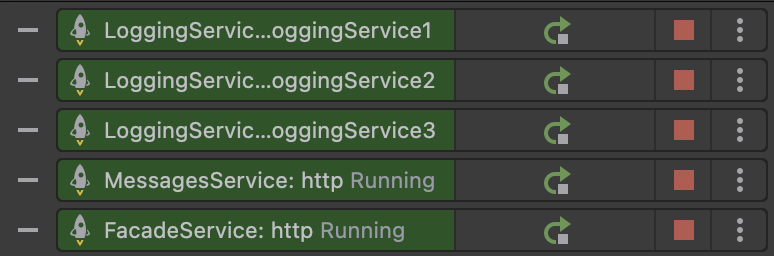
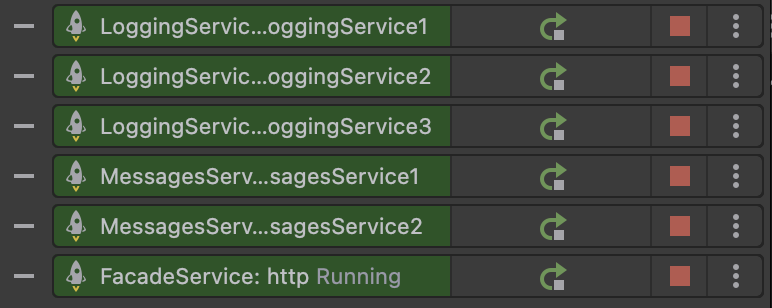
message queue

diff --git a/FacadeService/Program.cs b/FacadeService/Program.cs
@@ -1,4 +1,5 @@
 using FacadeService;
+using Hazelcast;
 
 var builder = WebApplication.CreateBuilder(args);
 
@@ -9,18 +10,32 @@ var app = builder.Build();
 app.UseSwagger();  
 app.UseSwaggerUI();
 
-app.MapPost("/facade", async (HttpContext httpContext, ILoggingClientService loggingClientService) => {
-    var request = await httpContext.Request.ReadFromJsonAsync<MessageRequest>();
+app.MapPost("/facade", async (
+    MessageRequest? request,
+    ILoggingClientService loggingClientService,
+    IHazelcastClient hzClient) =>
+{
+    if (request is null) 
+        return Results.BadRequest("Message is required");
+    
+    var queue = await hzClient.GetQueueAsync<string>("messageQueue");
+    await queue.OfferAsync(request.Message);
+
     var client = await loggingClientService.GetClientAsync();
     var uuid = Guid.NewGuid().ToString();
-    await client.PostAsJsonAsync("/log", new { Uuid = uuid, Message = request?.Message });
+    await client.PostAsJsonAsync("/log", new { Uuid = uuid, request.Message });
     return Results.Ok(new { Uuid = uuid });
 });
 
-app.MapGet("/facade", async (ILoggingClientService loggingClientService) => {
-    var client = await loggingClientService.GetClientAsync();
-    var loggingResponse = await client.GetStringAsync("/log");
-    var messagesResponse = "Static response or another service call";
+app.MapGet("/facade", async (
+    ILoggingClientService loggingClientService,
+    IMessagesClientService messagesClientService) =>
+{
+    var messagesClient = await messagesClientService.GetClientAsync();
+    var messagesResponse = await messagesClient.GetStringAsync("/messages");
+
+    var loggingClient = await loggingClientService.GetClientAsync();
+    var loggingResponse = await loggingClient.GetStringAsync("/log");
     return Results.Ok($"{loggingResponse}\n{messagesResponse}");
 });
 

diff --git a/FacadeService/ServiceRegister.cs b/FacadeService/ServiceRegister.cs
@@ -1,5 +1,6 @@
 using System.Reflection;
 using FacadeService;
+using Hazelcast;
 
 namespace Microsoft.Extensions.DependencyInjection;
 
@@ -23,6 +24,18 @@ public static class ServiceRegister
         serviceCollection.AddHttpClient("LoggingService3", client => client.BaseAddress = new Uri("http://localhost:5066/"));
 
         serviceCollection.AddSingleton<ILoggingClientService, LoggingClientService>();
+        
+        serviceCollection.AddHttpClient("MessagesService1", client => client.BaseAddress = new Uri("http://localhost:5074/"));
+        serviceCollection.AddHttpClient("MessagesService2", client => client.BaseAddress = new Uri("http://localhost:5075/"));
+        
+        serviceCollection.AddSingleton<IMessagesClientService, MessagesClientService>();
+        
+        serviceCollection.AddSingleton<IHazelcastClient>(serviceProvider =>
+        {
+            var hzOptions = new HazelcastOptionsBuilder().Build();
+            // Note: This call is not awaited, but it's expected to complete synchronously
+            return HazelcastClientFactory.StartNewClientAsync(hzOptions).GetAwaiter().GetResult();
+        });
 
         serviceCollection.AddEndpointsApiExplorer();
         serviceCollection.AddSwaggerGen();

diff --git a/MessagesService/MessagesManager.cs b/MessagesService/MessagesManager.cs
@@ -1,0 +1,40 @@
+using Hazelcast;
+
+namespace MessagesService;
+
+public interface IMessagesManager
+{
+    Task StartListening(CancellationToken cancellationToken);
+    Task<List<string>> GetAllMessagesAsync();
+}
+
+public class MessagesManager : IMessagesManager
+{
+    private readonly IHazelcastClient _hzClient;
+    private readonly List<string> _messages = new();
+
+    public MessagesManager(IHazelcastClient hzClient)
+    {
+        _hzClient = hzClient;
+    }
+
+    public async Task StartListening(CancellationToken cancellationToken)
+    {
+        var queue = await _hzClient.GetQueueAsync<string>("messageQueue");
+        while (!cancellationToken.IsCancellationRequested)
+        {
+            // Blocks until a message is available
+            var message = await queue.TakeAsync();
+            if (message is not null)
+            {
+                _messages.Add(message);
+                Console.WriteLine($"Message received and processed: {message}");
+            }
+        }
+    }
+
+    public Task<List<string>> GetAllMessagesAsync()
+    {
+        return Task.FromResult(_messages);
+    }
+}

diff --git a/MessagesService/Program.cs b/MessagesService/Program.cs
@@ -1,6 +1,26 @@
+using Hazelcast;
+using MessagesService;
+
 var builder = WebApplication.CreateBuilder(args);
+
+var hzOptions = new HazelcastOptionsBuilder().Build();
+var hzClient = await HazelcastClientFactory.StartNewClientAsync(hzOptions);
+builder.Services.AddSingleton<IHazelcastClient>(hzClient);
+
+builder.Services.AddSingleton<IMessagesManager, MessagesManager>();
+
 var app = builder.Build();
 
-app.MapGet("message", () => "not implemented yet");
+var messagesService = app.Services.GetRequiredService<IMessagesManager>();
+
+// Start listening to the message queue in the background
+var backgroundTaskCTS = new CancellationTokenSource();
+var listeningTask = messagesService.StartListening(backgroundTaskCTS.Token);
+
+app.MapGet("/messages", async (IMessagesManager messagesManager) =>
+{
+    var messages = await messagesManager.GetAllMessagesAsync();
+    return Results.Ok(string.Join("\n", messages));
+});
 
 app.Run();

diff --git a/FacadeService/MessagesClientService.cs b/FacadeService/MessagesClientService.cs
@@ -1,0 +1,25 @@
+namespace FacadeService;
+
+public interface IMessagesClientService
+{
+    Task<HttpClient> GetClientAsync();
+}
+
+public class MessagesClientService : IMessagesClientService
+{
+    private readonly IHttpClientFactory _clientFactory;
+    private readonly string[] _clientNames = { "MessagesService1", "MessagesService2" };
+    private readonly Random _random = new();
+
+    public MessagesClientService(IHttpClientFactory clientFactory)
+    {
+        _clientFactory = clientFactory;
+    }
+
+    public Task<HttpClient> GetClientAsync()
+    {
+        var clientName = _clientNames[_random.Next(_clientNames.Length)];
+        var client = _clientFactory.CreateClient(clientName);
+        return Task.FromResult(client);
+    }
+}

diff --git a/README.md b/README.md
@@ -1,4 +1,4 @@
-# Task 3 - Hazelcast Microservices
+# Task 4 - Hazelcast Message Queue
 ### Framework: Minimal API C# .NET 7.0
 
 Author: [Tymur Krasnianskyi](https://github.com/trlumph/)
@@ -54,21 +54,64 @@ Update the `launchSettings.json` file to include the following environment varia
   }
 }
 ```
+## 4: Messages Service
+Update the `launchSettings.json` file to include the following environment variables:
+- `applicationUrl` - the URL of the service
+```json
+{
+  "profiles": {
+    "MessagesService1": {
+      "commandName": "Project",
+      "launchBrowser": false,
+      "applicationUrl": "http://localhost:5074",
+      "environmentVariables": {
+        "ASPNETCORE_ENVIRONMENT": "Development",
+        "HAZELCAST_NODE": "localhost:5701"
+      }
+    },
+    "MessagesService2": {
+      "commandName": "Project",
+      "launchBrowser": false,
+      "applicationUrl": "http://localhost:5075",
+      "environmentVariables": {
+        "ASPNETCORE_ENVIRONMENT": "Development",
+        "HAZELCAST_NODE": "localhost:5702"
+      }
+    }
+  }
+}
 
-## 4: Running the Services
+```
+## 5: Running the Services
 ![images/workflow.png](images/workflow.png)
 ![images/running_services.png](images/running_services.png)
 
-## 5: Testing the Services
+## 6: Testing the Services
 ### Post 10 messages
 ![images/post_message.png](images/post_message.png)
+
+Logging Services:
+
 ![images/node1_messages.png](images/node1_messages.png)
 ![images/node2_messages.png](images/node2_messages.png)
 ![images/node3_messages.png](images/node3_messages.png)
-### Get all messages
-![images/get_messages.png](images/get_messages.png)
 
-### Shutdown some of the nodes
+Messages Services:
+![images/messages_service1.png](images/messages_service1.png)
+![images/messages_service2.png](images/messages_service2.png)
+
+### Get all messages
+*Note: The result format is "`LoggingServiceMessages\nMessagesServiceMessages`"*
+
+From MessagesService 1:
+
+![images/all_messages1.png](images/all_messages1.png)
+
+From MessagesService 2:
+
+![images/all_messages2.png](images/all_messages2.png)
+
+### Shutdown some of the logging nodes
 ![images/node3_shutdown.png](images/node3_shutdown.png)
 
 The messages are still available in the cluster.
